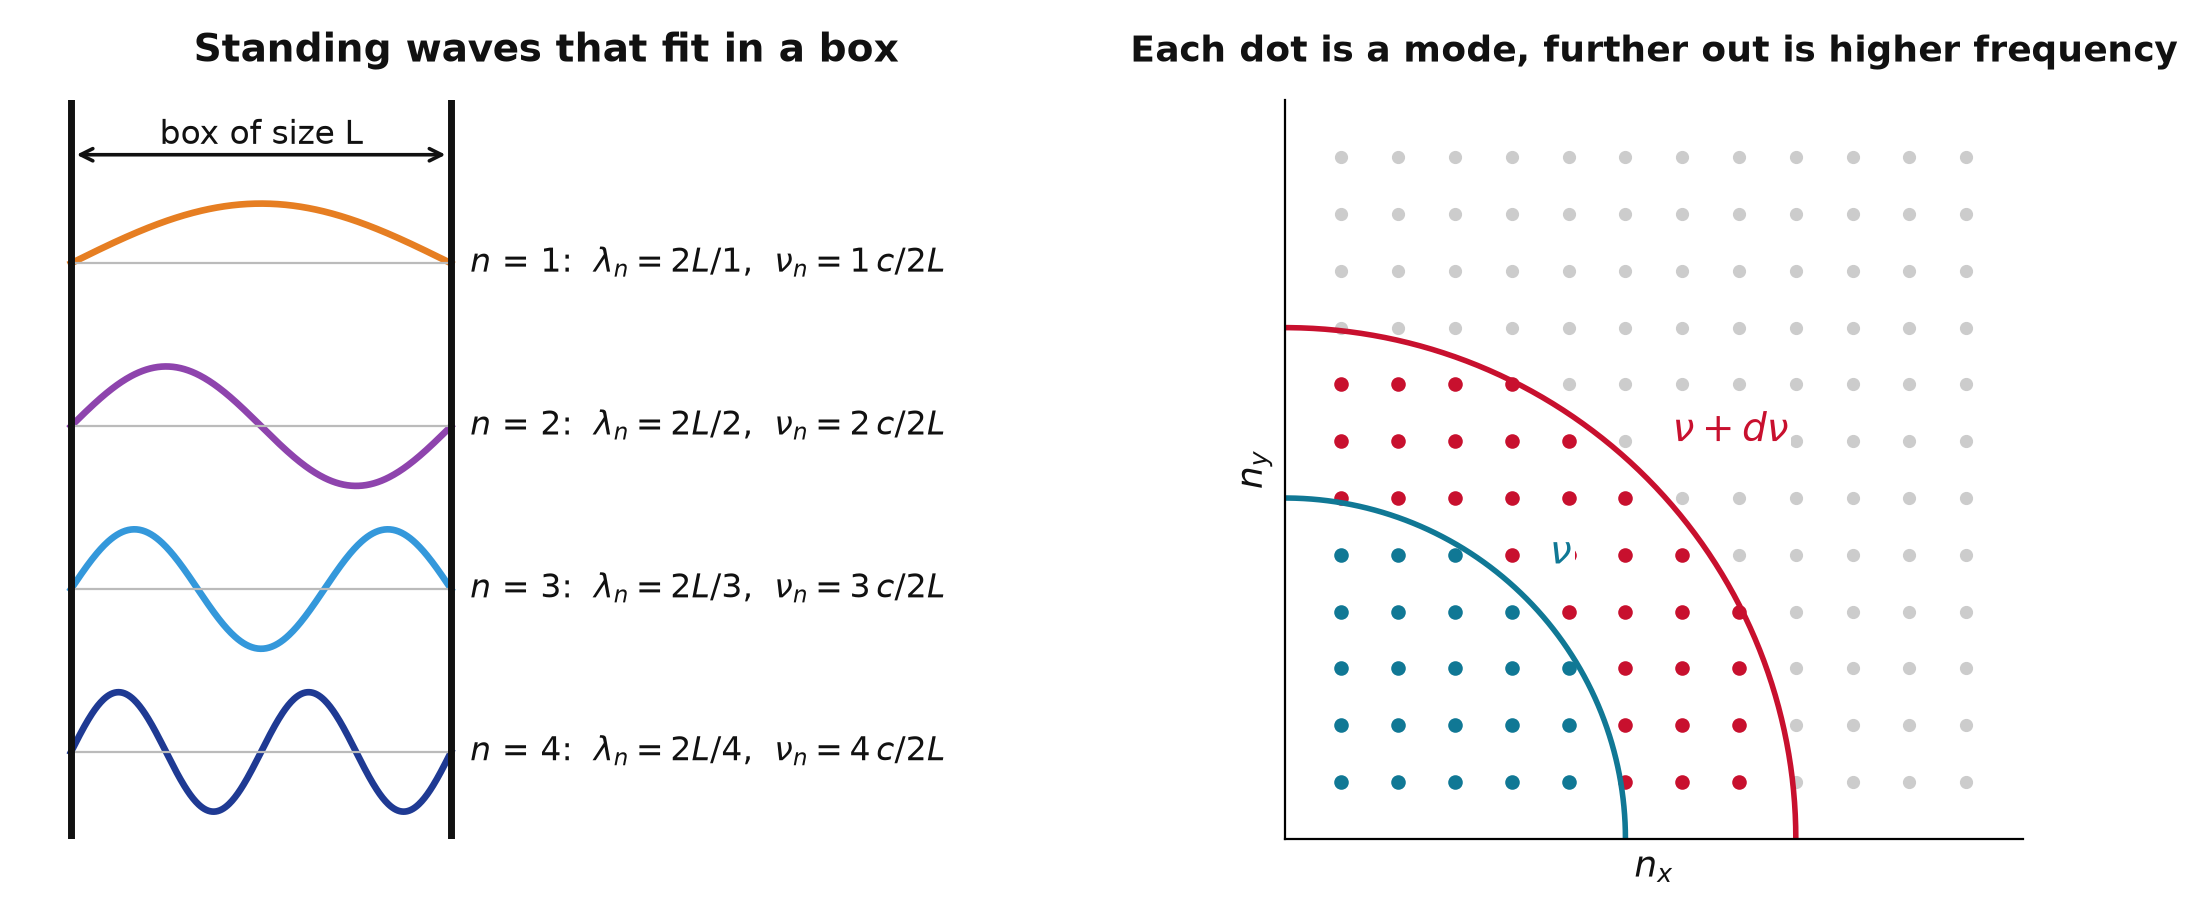
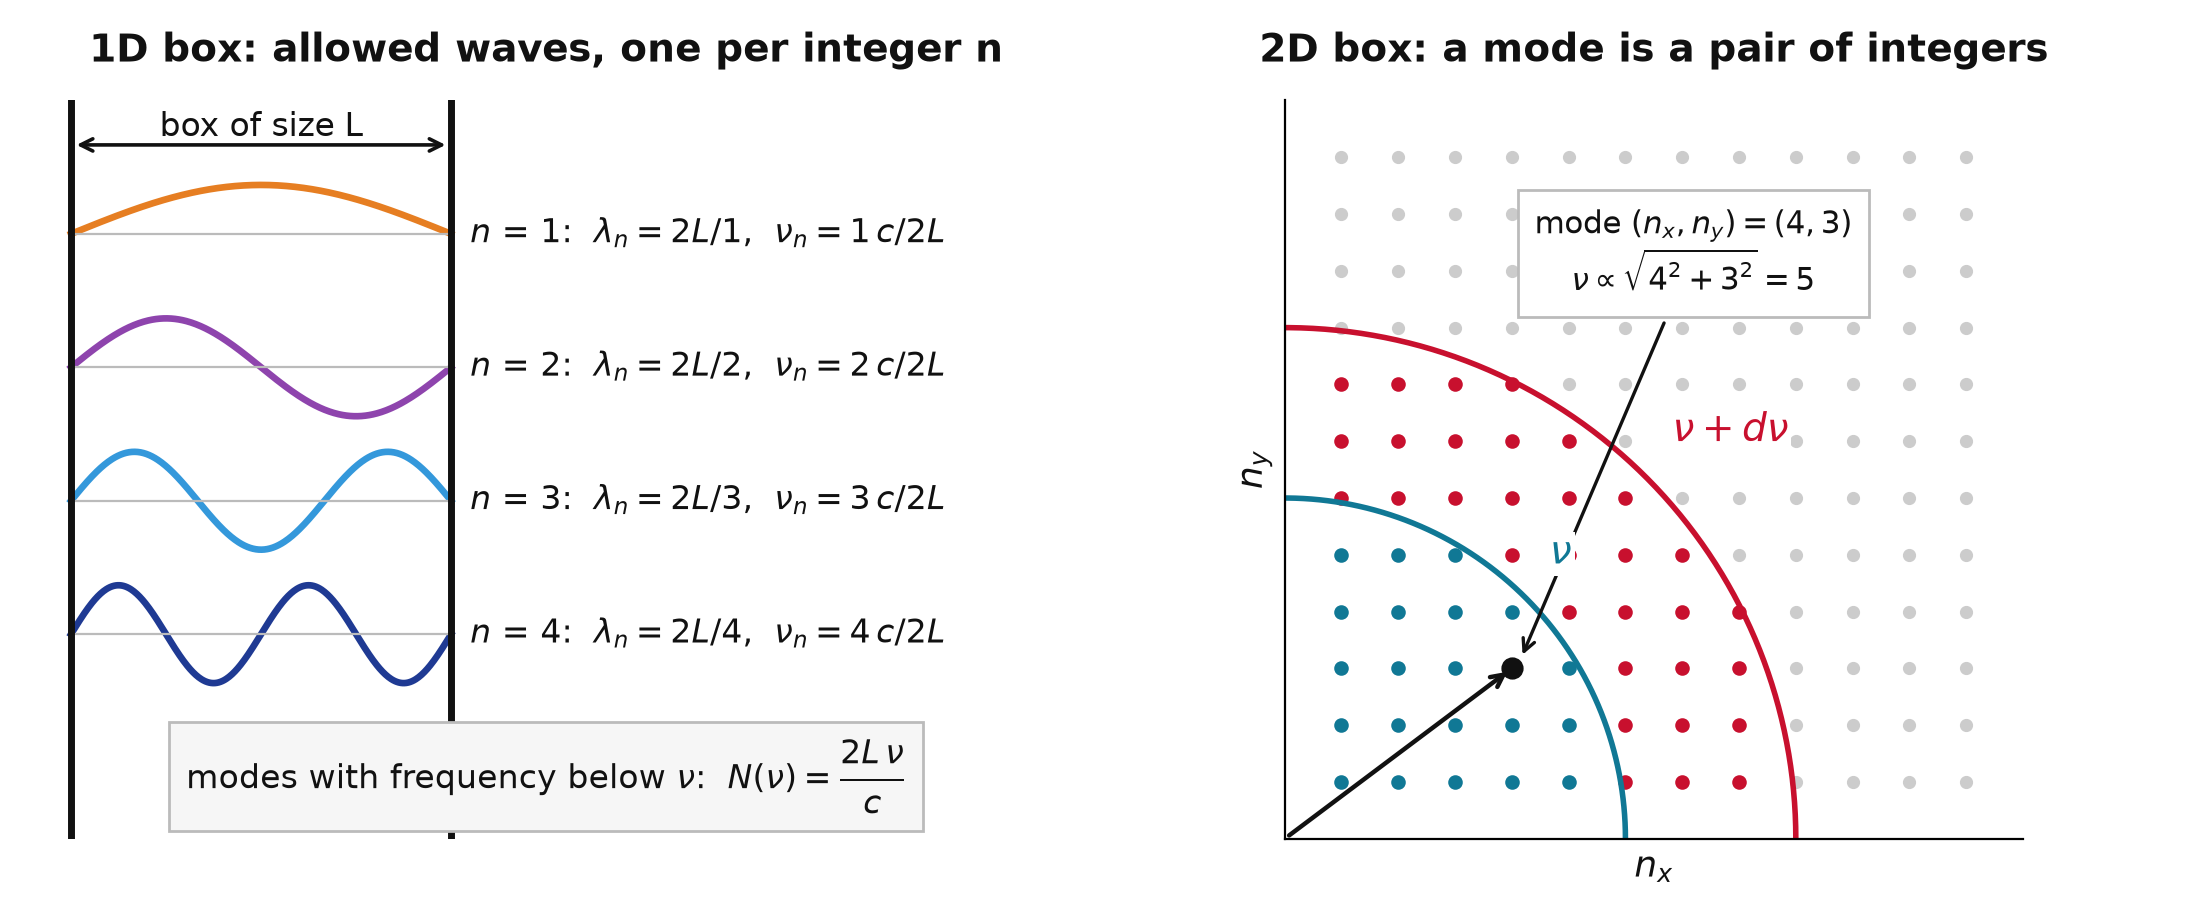
'simpler mode picture'

diff --git a/scripts/make_ch01_figures.py b/scripts/make_ch01_figures.py
@@ -101,8 +101,9 @@ for n in [1, 2, 3, 4]:
 b1.axvline(0, color=BLACK, lw=2.5); b1.axvline(L, color=BLACK, lw=2.5)
 b1.annotate("", xy=(L, 1.0), xytext=(0, 1.0), arrowprops=dict(arrowstyle="<->", color=BLACK, lw=1.3))
 b1.text(L / 2, 1.1, "box of size L", ha="center", fontsize=12, color=BLACK)
-b1.set_xlim(-0.1, 2.6); b1.set_ylim(-5.3, 1.5); b1.axis("off")
-b1.set_title("Standing waves that fit in a box", fontsize=14, fontweight="bold", color=BLACK, pad=14)
+b1.set_xlim(-0.1, 2.6); b1.set_ylim(-6.8, 1.5); b1.axis("off")
+b1.text(1.25, -6.1, r"modes with frequency below $\nu$:  $N(\nu) = \dfrac{2L\,\nu}{c}$", fontsize=12, color=BLACK, ha="center", va="center", bbox=dict(fc="#f6f6f6", ec="#bbb", pad=6))
+b1.set_title("1D box: allowed waves, one per integer n", fontsize=14, fontweight="bold", color=BLACK, pad=14)
 # mode lattice in 2D: each dot is a mode (n_x, n_y); frequency grows with distance from the origin
 N = 12; R1, R2 = 6.0, 9.0
 nx, ny = np.meshgrid(np.arange(1, N + 1), np.arange(1, N + 1))
@@ -110,6 +111,10 @@ r = np.sqrt(nx**2 + ny**2)
 b2.scatter(nx[r > R2], ny[r > R2], s=14, color="#cccccc")
 b2.scatter(nx[(r > R1) & (r <= R2)], ny[(r > R1) & (r <= R2)], s=18, color=CARDINAL)
 b2.scatter(nx[r <= R1], ny[r <= R1], s=18, color=TEAL)
+b2.annotate("", xy=(4, 3), xytext=(0, 0), arrowprops=dict(arrowstyle="->", color=BLACK, lw=1.6))
+b2.plot(4, 3, "o", color=BLACK, ms=7, zorder=5)
+b2.annotate(r"mode $(n_x, n_y) = (4, 3)$" + "\n" + r"$\nu \propto \sqrt{4^2 + 3^2} = 5$", xy=(4.15, 3.15), xytext=(7.2, 10.3), fontsize=11, color=BLACK, ha="center", va="center",
+            bbox=dict(fc="white", ec="#bbb", pad=6), arrowprops=dict(arrowstyle="->", color=BLACK, lw=1.2))
 th = np.linspace(0, np.pi / 2, 200)
 b2.plot(R1 * np.cos(th), R1 * np.sin(th), color=TEAL, lw=2); b2.plot(R2 * np.cos(th), R2 * np.sin(th), color=CARDINAL, lw=2)
 b2.text(R1 * 0.72 + 0.35, R1 * 0.72 + 0.35, r"$\nu$", color=TEAL, fontsize=14, ha="left", va="bottom", bbox=dict(fc="white", ec="none", pad=1))
@@ -117,7 +122,7 @@ b2.text(R2 * 0.72 + 0.35, R2 * 0.72 + 0.35, r"$\nu + d\nu$", color=CARDINAL, fon
 b2.set_xlim(0, N + 1); b2.set_ylim(0, N + 1); b2.set_aspect("equal")
 b2.set_xlabel(r"$n_x$", fontsize=13, color=BLACK); b2.set_ylabel(r"$n_y$", fontsize=13, color=BLACK)
 b2.set_xticks([]); b2.set_yticks([])
-b2.set_title("Each dot is a mode, further out is higher frequency", fontsize=13, fontweight="bold", color=BLACK, pad=14)
+b2.set_title("2D box: a mode is a pair of integers", fontsize=14, fontweight="bold", color=BLACK, pad=14)
 fig.tight_layout(); fig.savefig(f"{OUT}/mode_counting.png", dpi=200)
 
 # ---------------------------------------------------------------- 3. wave definitions

diff --git a/ch01/02-the-need-for-quantization.md b/ch01/02-the-need-for-quantization.md
@@ -132,21 +132,30 @@ Predictions of classical and quantum mechanics diverge in the high-frequency (sh
 
 - **What is radiation in classical mechanics?** Radiation is considered a wave with frequency $\nu$. In a heated body, naturally vibrating springs (which represent atoms or molecules) generate waves with the same frequency.
 
-:::{tip} **How many waves fit in a box?**
+:::{important} **The recipe for a radiation spectrum**
 
-```{figure} ./images/mode_counting.png
-:alt: standing waves in a box and the lattice of allowed modes
-:width: 95%
+$$\rho_{\nu}(T)\, d\nu = \underbrace{dN_{\nu}}_{\text{number of wave modes per volume with frequency in } [\nu, \nu + d\nu]} \times \underbrace{\langle E \rangle}_{\text{average energy of one mode at temperature } T}$$
 
-Left: only waves with a node at each wall fit in a box of size $L$, so $\lambda_n = 2L/n$ and $\nu_n = n\,c/2L$. Right: in two dimensions each allowed mode is a dot $(n_x, n_y)$, and its frequency is proportional to the distance from the origin. The modes between $\nu$ and $\nu + d\nu$ fill a thin ring.
-```
-
-1. A wave fits in the box only if a whole number of half-wavelengths spans it: $n = 1, 2, 3, \ldots$ in each direction.
-2. The frequency of a mode $(n_x, n_y, n_z)$ is $\nu = \frac{c}{2L}\sqrt{n_x^2 + n_y^2 + n_z^2}$, so all modes with frequency below $\nu$ sit inside a sphere of radius $2L\nu/c$ in "mode space."
-3. The number of modes below $\nu$ is the volume of that sphere, $\propto \nu^3$. The number in a thin shell $[\nu, \nu + d\nu]$ is its surface times $d\nu$, $\propto \nu^2 d\nu$.
+- The energy stored in radiation at frequency $\nu$ is the number of waves of that frequency times the energy each one carries on average.
+- The first factor is pure **geometry** (how many standing waves fit in a box) and is the same in classical and quantum physics.
+- The second factor is **thermodynamics**, and it is where classical and quantum physics part ways. Everything that follows is about these two factors.
 :::
 
-- **Packing wave modes in a box.** More high-frequency (short-wavelength) waves fit in the box than low-frequency ones: the count in the interval $[\nu, \nu+d\nu]$ grows as $d(\nu^3) \sim \nu^2 d\nu$. Working out the constant (two polarizations, one octant of the sphere, division by the box volume) gives
+:::{tip} **Factor 1: counting the wave modes in a box**
+
+```{figure} ./images/mode_counting.png
+:alt: allowed standing waves in a one-dimensional box and the grid of modes in a two-dimensional box
+:width: 95%
+
+Left: in a box of size $L$ the allowed waves are labeled by one integer $n$, with $\nu_n = n\,c/2L$. Right: in a two-dimensional box a mode is a pair of integers $(n_x, n_y)$, drawn as a dot, and its frequency is proportional to the distance of the dot from the origin.
+```
+
+- **One dimension.** A wave fits only if a whole number of half-wavelengths spans the box, so the allowed frequencies are $\nu_n = n\,c/2L$ with $n = 1, 2, 3, \ldots$ The number of modes with frequency below $\nu$ is simply the largest allowed $n$: $N(\nu) = 2L\nu/c$. It grows **linearly** with $\nu$.
+- **Three dimensions.** Now a mode needs three integers $(n_x, n_y, n_z)$ and its frequency is $\nu = \frac{c}{2L}\sqrt{n_x^2 + n_y^2 + n_z^2}$, the distance of the point from the origin. Modes below $\nu$ are the grid points inside a sphere of radius $2L\nu/c$; there are as many as the sphere has volume, so $N(\nu) \propto \nu^3$.
+- **A thin slice.** The modes between $\nu$ and $\nu + d\nu$ form a thin spherical shell whose volume is surface times thickness: $dN \propto \nu^2\, d\nu$. This is the whole content of "more short waves fit than long ones."
+:::
+
+- **Result of the counting.** Keeping track of the constants (two polarizations of light, only positive integers, so one octant of the sphere, and division by the box volume $L^3$) gives the number of modes per unit volume in $[\nu, \nu+d\nu]$:
 
 $$
 dN_{\nu} = \frac{8\pi}{c^3} \cdot \nu^2 d\nu
@@ -160,15 +169,15 @@ $$
 Visualization of atomic vibrations in a solid body. These vibrational modes are called phonons, not to be confused with the photons introduced in the next section. Each mode is one of the dots counted above.
 :::
 
- - **Equipartition of energy.** From thermodynamics we know that in equilibrium each degree of freedom, or each oscillator, gets the same energy $k_BT$, where $k_B$ is the Boltzmann constant. 
+ - **Factor 2, the classical way: equipartition of energy.** From thermodynamics we know that in equilibrium each degree of freedom, or each oscillator, gets the same energy $k_BT$, where $k_B$ is the Boltzmann constant. 
 
   $$\langle E\rangle = k_BT$$
 
  -  Every vibrating spring in a heated body thus has the same energy regardless of frequency. Think about this assumption for a second!
 
-- **Radiation energy distribution.** The distribution of radiated frequencies is then the product of the average thermal energy and the number of springs in a frequency interval:
+- **Radiation energy distribution.** Putting the two factors of the recipe together, modes per volume times $k_BT$ per mode, gives the classical **Rayleigh-Jeans law**:
 
-$$\rho({\nu}) =  k_B T \cdot \frac{8\pi}{c^3}\nu^2$$
+$$\rho({\nu}) = \frac{8\pi}{c^3}\nu^2 \cdot k_B T$$
 
 - **Ultraviolet catastrophe.** The energy distribution shoots to infinity at high $\nu$ (or low $\lambda$). This is known as the ultraviolet catastrophe! Integrating $\rho$ over all frequencies gives the total amount of radiation, which in this case is infinite. A light bulb could destroy the universe! Something is off with our classical prediction.
 
@@ -258,11 +267,11 @@ This is Planck's law, which describes the spectral density of radiation emitted 
 
 :::
 
-- Assuming that the energy of an oscillator is quantized, Planck derived a new expression for the average energy which, unlike the classical expression $k_BT$, now depends on the frequency of oscillation:
+- Planck kept factor 1 of the recipe, the mode count, untouched. Assuming that the energy of an oscillator is quantized, he derived a new **factor 2**, an average energy which, unlike the classical $k_BT$, depends on the frequency of oscillation:
 
 $$\langle E \rangle = \Big[ \frac{h\nu}{e^{\frac{h\nu}{ kT}} - 1}\Big] $$
 
-- With this expression we end up with a distribution of oscillator energies that tends to zero in the high-frequency limit. The same law can be written per unit frequency or per unit wavelength (substitute $\nu = c/\lambda$ and $d\nu = c\,d\lambda/\lambda^2$):
+- Modes per volume times this average energy gives **Planck's law**, a distribution that tends to zero in the high-frequency limit because the exponential in factor 2 wins over the $\nu^2$ of factor 1. The same law can be written per unit frequency or per unit wavelength (substitute $\nu = c/\lambda$ and $d\nu = c\,d\lambda/\lambda^2$):
 
 ::::{tab-set}
 :::{tab-item} per unit frequency
